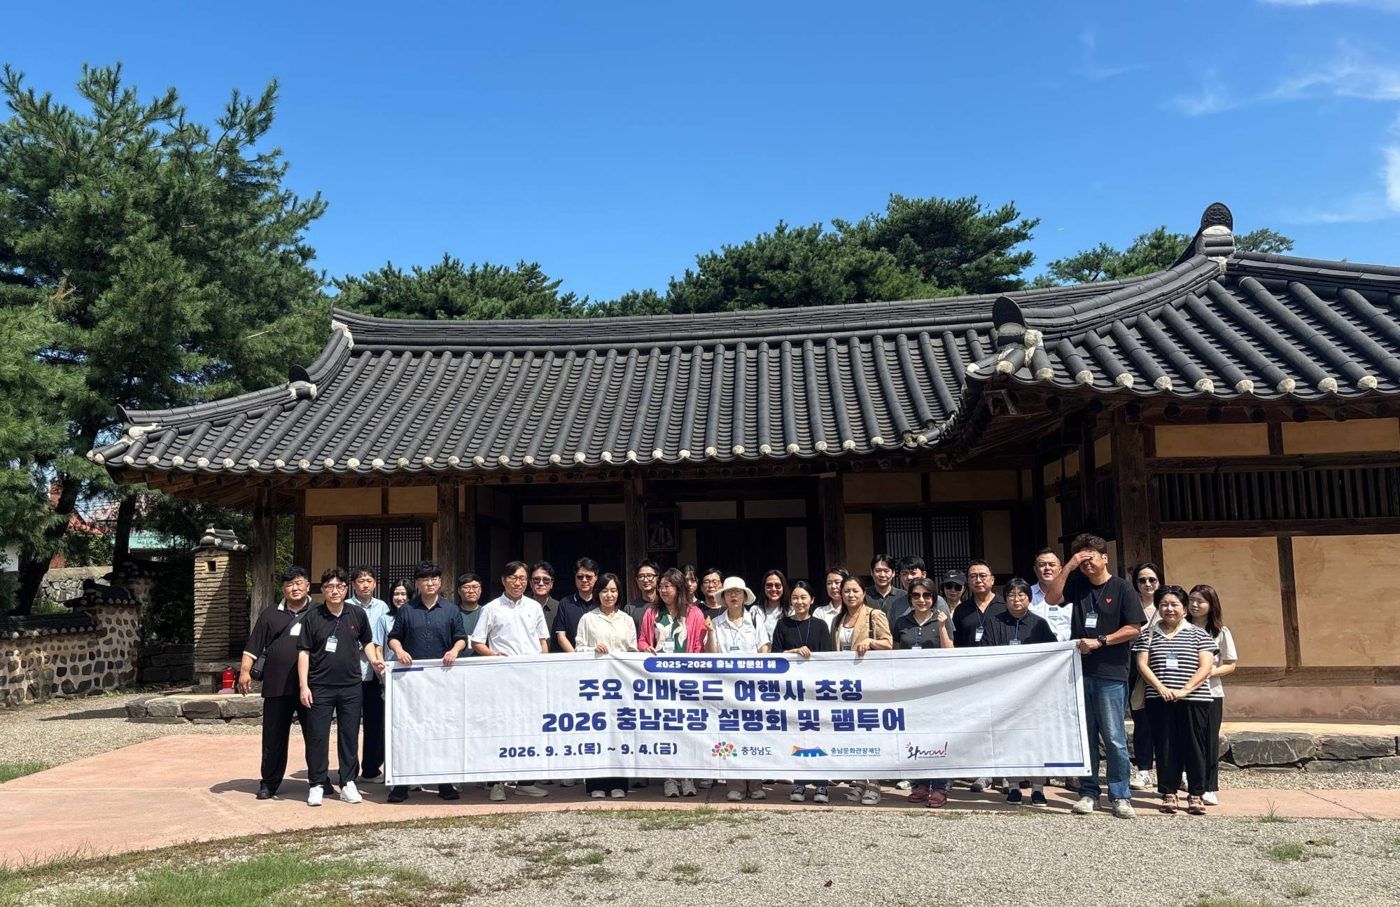
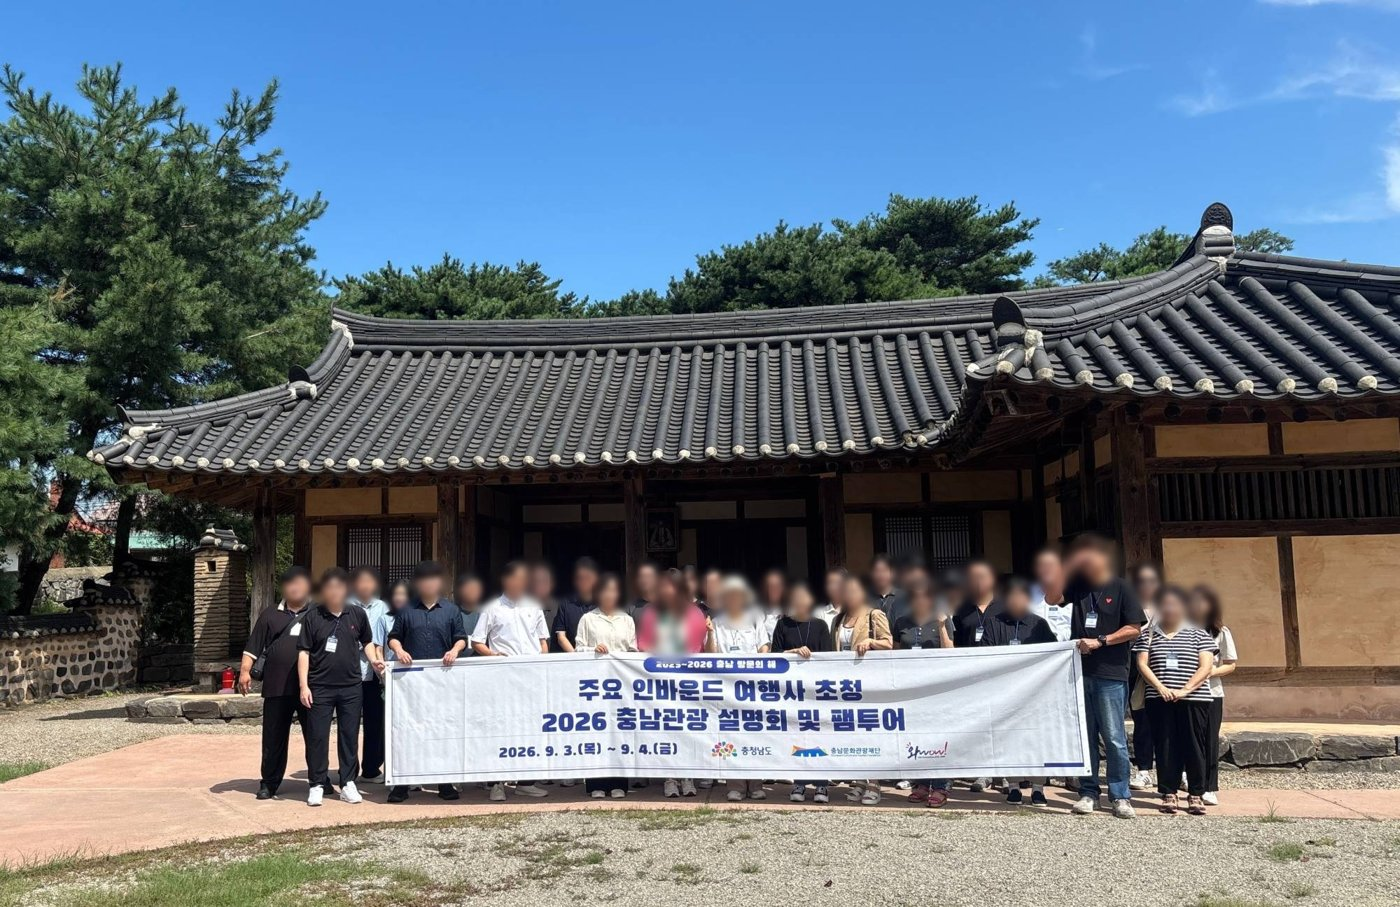
행사 사진 얼굴 흐림 처리, 충남문화관광재단 팸투어 문구 수정

Changed region(s): [[0.1843, 0.5865, 0.8907, 0.7409]]

diff --git a/index.html b/index.html
@@ -413,8 +413,8 @@
         </div>
         <div style="display:flex;flex-direction:column;gap:9px">
           <span style="font:9.5px/1 ui-monospace,monospace;font-weight:700;letter-spacing:0.18em;color:#1f4f49">FAMTOUR</span>
-          <span style="font-size:18px;font-weight:700;letter-spacing:-0.03em">충남 인바운드 팸투어</span>
-          <span style="font-size:13.5px;line-height:1.8;color:#5d6b68">2026년 9월 3일, 충남관광 설명회 및 팸투어 현장입니다.</span>
+          <span style="font-size:18px;font-weight:700;letter-spacing:-0.03em">충남문화관광재단 인바운드 팸투어</span>
+          <span style="font-size:13.5px;line-height:1.8;color:#5d6b68">2026년 9월, 충남문화관광재단 팸투어 행사를 공식 주도해 진행했습니다.</span>
         </div>
       </a>
       <a href="cases.html" style="display:flex;flex-direction:column;gap:18px;color:inherit">
